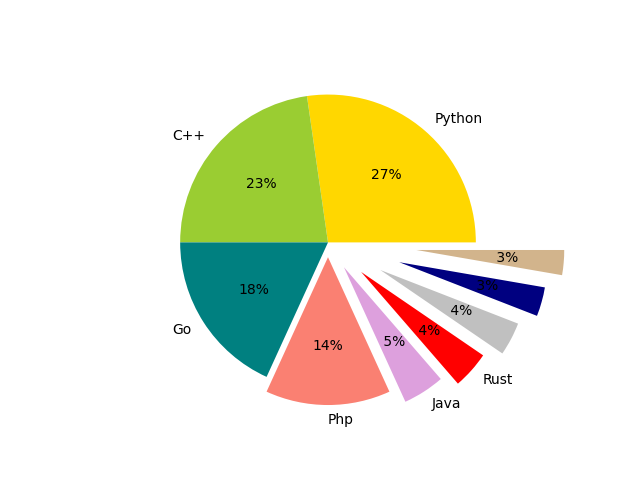
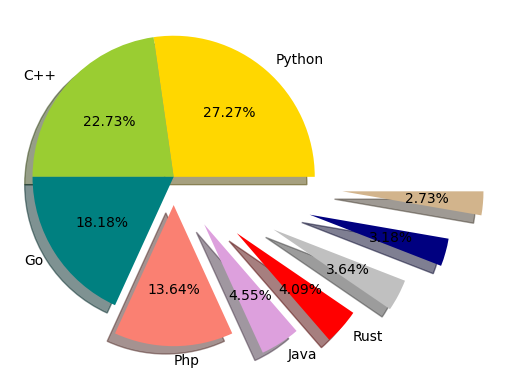
Practice_Matplotlib

diff --git a/Practice_Plt.py b/Practice_Plt.py
@@ -1,4 +1,4 @@
-#draw (plot $ bar $ scatter $pie $donut )graphs in matplotlib
+#draw (plot $ bar $barh $scatter $pie $donut &Histograms )graphs in matplotlib
 import matplotlib.pyplot as plt
 from random import randint as rnd
 x=list(range(50))
@@ -62,8 +62,9 @@ print("$$$$$$$$$$")
 vals=[60,50,40,30,10,9,8,7,6]
 labels=["Python","C++","Go","Php","Java","Rust","","",""]
 cls=["gold","yellowgreen","teal","salmon","plum","red","silver","navy","tan"]
-plt.pie(vals,labels=labels,colors=cls,autopct="%2.0f%%",explode=[0,0,0,0.1,0.2,0.3,0.4,0.5,0.6])
-plt.savefig("./new_pig.png")
+plt.pie(vals,labels=labels,colors=cls,autopct="%0.2f%%",explode=[0,0,0,0.1,0.2,0.3,0.4,0.5,0.6],radius=0.5,shadow=True)
+plt.axis("equal")
+plt.savefig("./new_pig.png",bbox_inches="tight",transparent=True)
 plt.show()
 
 print("$$$$$$$$$$$$")
@@ -88,4 +89,15 @@ plt.xlabel("revenue")
 plt.barh(xpos-0.15,revenue,label="company.revenue")
 plt.barh(xpos+0.15,profit,label="company.profit")
 plt.legend(shadow=True,fontsize=8)
+plt.show()
+
+print("%%%%%%%%%%%%%")
+
+blood_sugar_men = [113, 85, 90, 150, 149, 88, 93, 115, 135, 80, 77, 82, 129]
+blood_sugar_women = [67, 98, 89, 120, 133, 150, 84, 69, 89, 79, 120, 112, 100]
+plt.xlabel("Sugar Range")
+plt.ylabel("Total No of Patients")
+plt.title("Sugare Blood")
+plt.hist([blood_sugar_men,blood_sugar_women],bins=[60,80,100,130,150],rwidth=0.95,color=["green","orange"],label=["blood_sugar_men","blood_sugar_women"])
+plt.legend(shadow=True,fontsize=6)
 plt.show()
